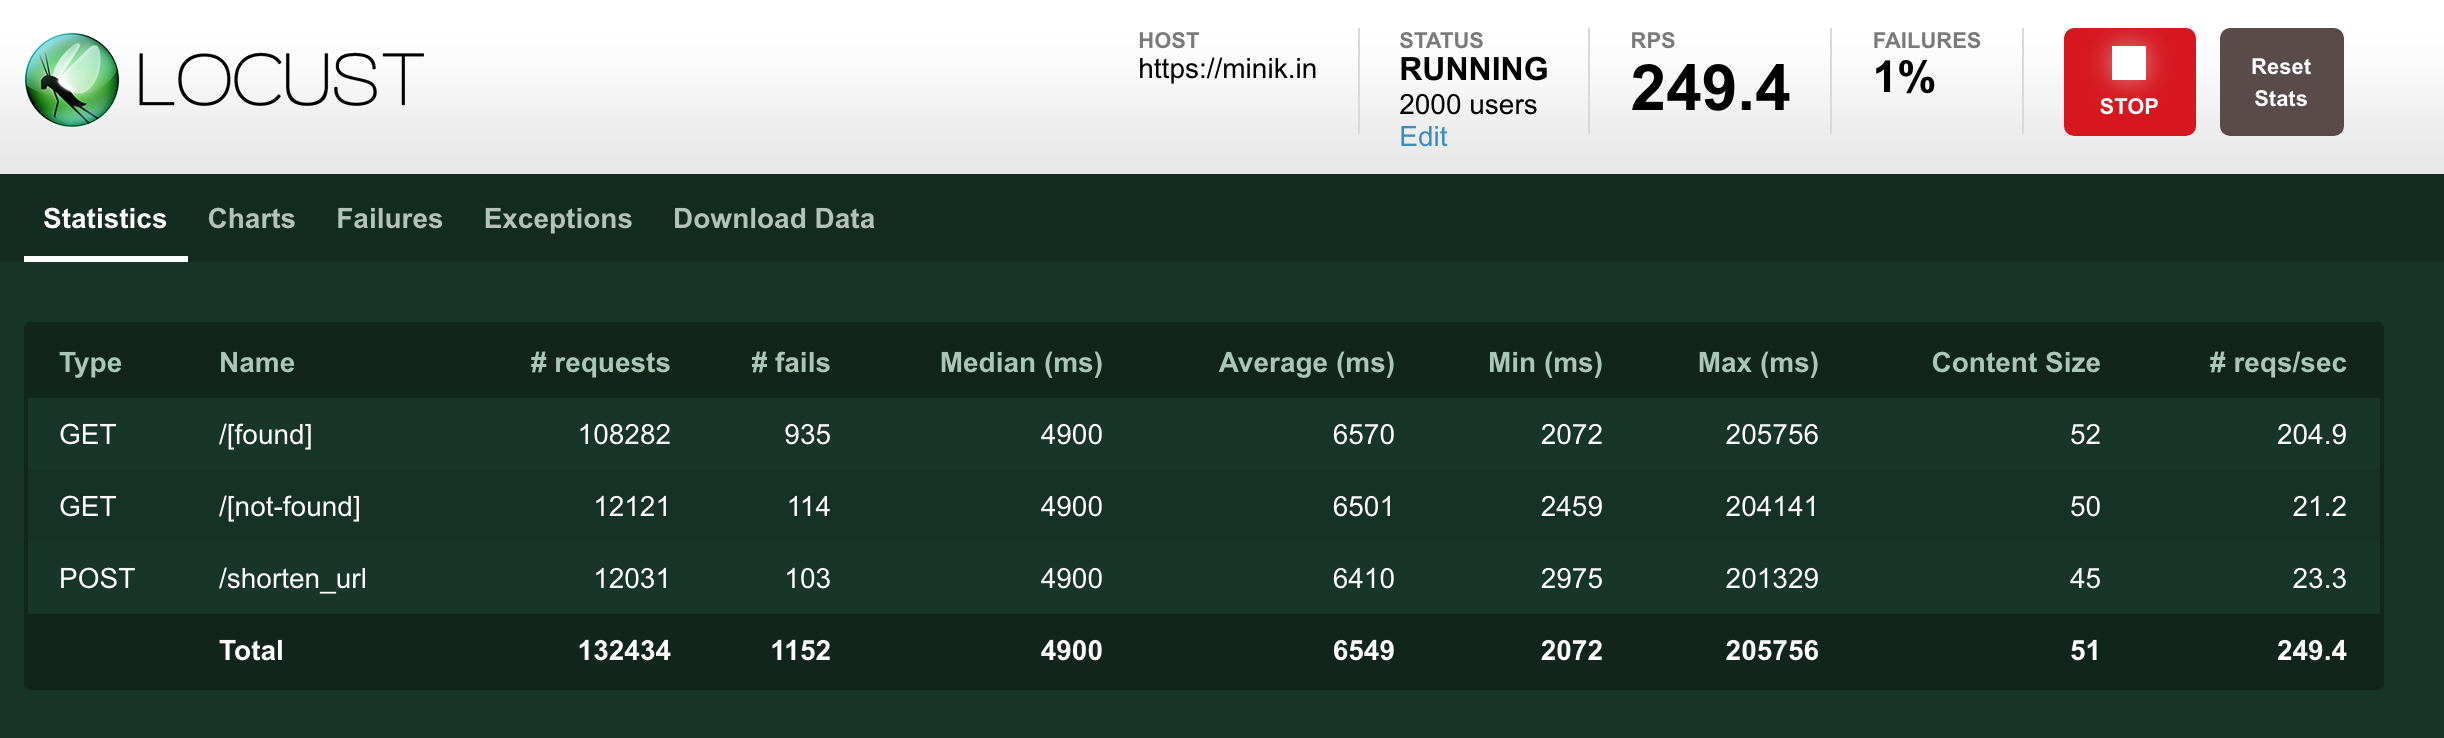
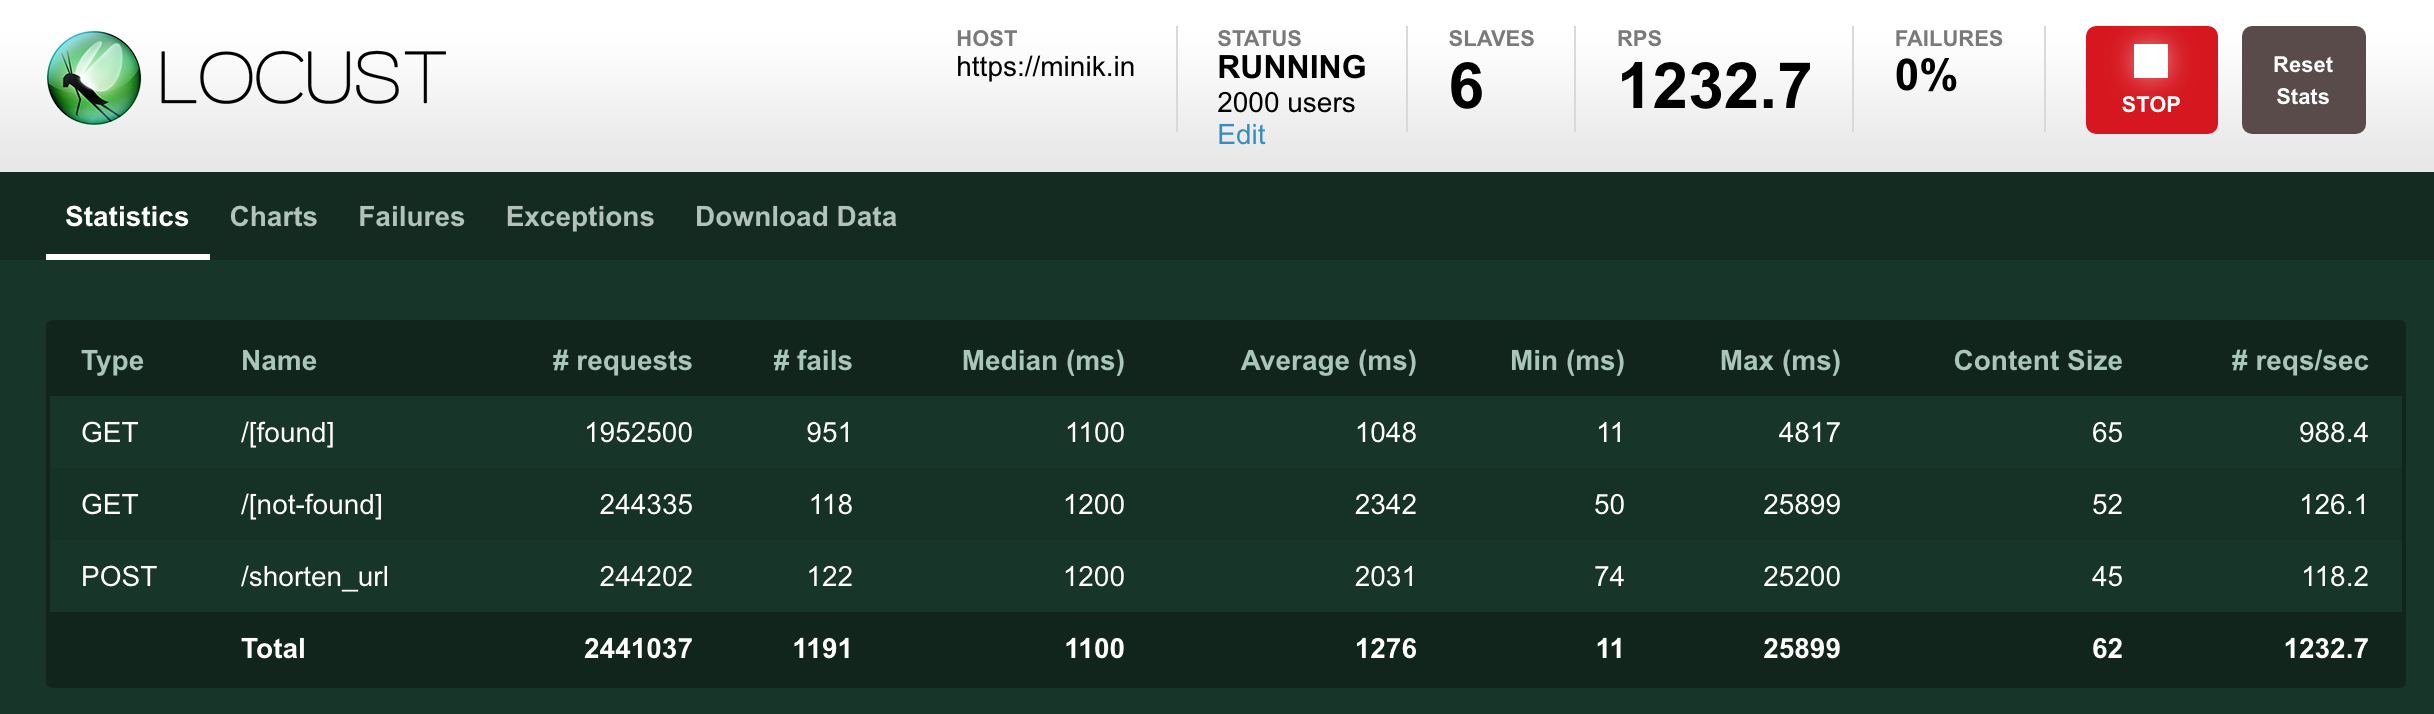
updated benchmark

diff --git a/README.md b/README.md
@@ -44,7 +44,8 @@ Server: nginx/1.14.0 (Ubuntu)
 
 - [aiohttp](https://github.com/aio-libs/aiohttp) HTTP server for asyncio
 - [asyncpg](https://github.com/MagicStack/asyncpg) A fast PostgreSQL Database Client Library for Python/asyncio
-- [postgresql](https://www.postgresql.org/) The world's most advanced open source relational database.
+- [postgresql](https://www.postgresql.org/) Used as the persistent data storage
+- [redis](https://redis.io) Used as data cache
 
 ## Installation
 
@@ -62,7 +63,7 @@ One table with two columns (slug and url) are the minimum needed. The slug, i.e.
 createdb -U postgres minikin
 psql -U postgres minikin <<EOF
 CREATE TABLE short_url (
-    slug CHAR(16),
+    slug CHAR(7),
     url TEXT,
     PRIMARY KEY (slug)
 );
@@ -108,12 +109,12 @@ Also because the process is deterministic, the system doesn't check if the url a
 
 ### concurrency model
 
-Event driven async socket is used instead of multi threading because it is in theory more efficient in handling heavy traffic. However, given that requests will be very short lived, thread pooling is probably also going to work well.
+Event driven async socket is used instead of multi threading because it can handle more concurrent requests with the same resource compared with threading concurrency model.
 
 
 ### database
 
-A relational database in Postgresql is picked instead of a NoSQL database. This is mainly because Postgresql is one of the better supported databases for asyncio/aiohttp and also there are repeated reports of Postgresql out performing NoSQL database. A key value store in theory should be better for the system.
+Both Postgresql and Redis have good support in asyncio. They work well togehter where Postgres is the persistent data storage and Redis sits in the front as the cache.
 
 
 ## Load Test Benchmark
@@ -125,34 +126,63 @@ start the load test:
 locust -f tests/load/locustfile.py --host=https://minik.in
 ```
 
+or use the script for running in master/slave mode for leveraging the multi-core CPU.
+
+run without web interface:
+```
+python tests/load/run.py --host https://minik.in -n 6 --concurrency 2000 --hatch-rate 500
+```
+
+run with web interface:
+```
+python tests/load/run.py --host https://minik.in -n 6 --web
+```
+
 <img src="benchmark.png"/>
 
 Load profile:
 
-- number of urls in db: 30k
-- number of concurrent users: 2,000
+- number of urls in db: 5 million
+- number of concurrent users: 1,000 ~ 5,000
 - traffic distribution
     * 10% POST /shorten_url
     * 10% GET /[NOT FOUND]
     * 80% GET /[FOUND]
 
-The machine under test:
+Server machine:
 
 - Cloud provider: Google Compute Engine
-- Type: n1-standard-1
-- Number of vCPU: 1
-- RAM: 3.75GB
+- Location: London
+- Number of vCPU: 2
+- RAM: 8GB
 - Hard driver: 30GB SSD
-- Monthly cost: $40
-- Number of processes: 4
+- Cost: $50/month
+- Number of processes: 5
 - Reverse proxy server: Nginx
+
+Test client machine:
+
+- Cloud provider: Vultr
+- Location: Amsterdam
+- Number of CPU: 6
+- RAM: 16GB
+
 
 Result:
 
-- Request Per Second: it servers around 400 when the concurrent user number is less than 1000. at 2000 it's between 200 and 250.
-- Error rate: around 1% all of which are connection errors
-- CPU utilisation: 30% - 80%
-- RAM: around 500MB
+- Request Per Second: 1,000 ~ 1,200
+- CPU utilisation: 80% ~ 100%
+- Error rates at  based 500,000 requests. These are all 502 Server Error: Bad Gateway. They are caused by upstream server under heavy load and becoming unavailable.
+    * 1,000 concurrent connections: 0
+    * 2,000 concurrent connections: 0.2%
+    * 3,000 concurrent connections: 0.6%
+    * 4,000 concurrent connections: 1.9%
+    * 5,000 concurrent connections: 2.8%
+
+Limitation:
+
+- the client is in a data center with fast internet connection, so this doesn't represent real world use case.
+- the database has only 5 million records, which is about 400MB, so the memory needed for cache is small.
 
 ## Scale up and out
 
@@ -160,7 +190,7 @@ Because the state is not shared and the shortening process is determnistic, it c
 
 ### get better hardware
 
-Increasing the number of CPU should have an immediate impact. With more data, bigger RAM and hard drive will also boost the performance.
+Increasing the number of CPU should have an immediate impact. With more data, bigger RAM and hard drive will be required to keep or imporove the performance.
 
 ### traffic routing
 
